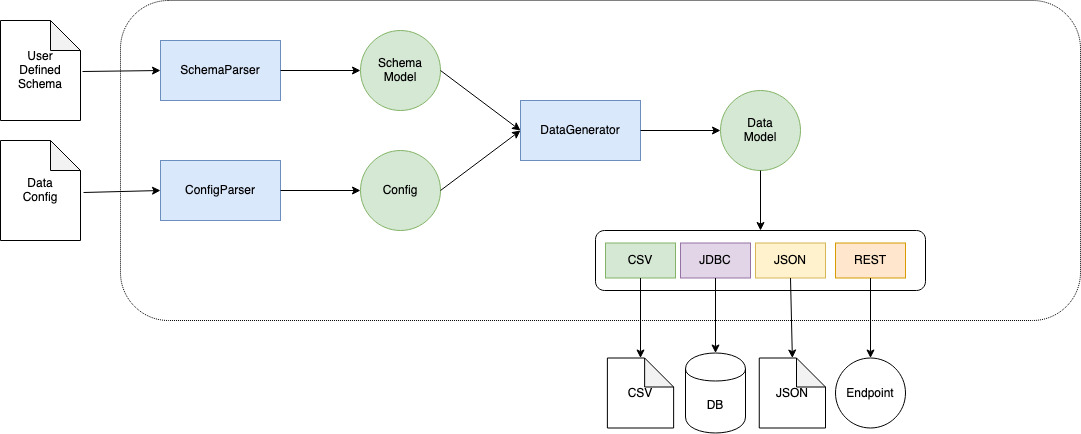
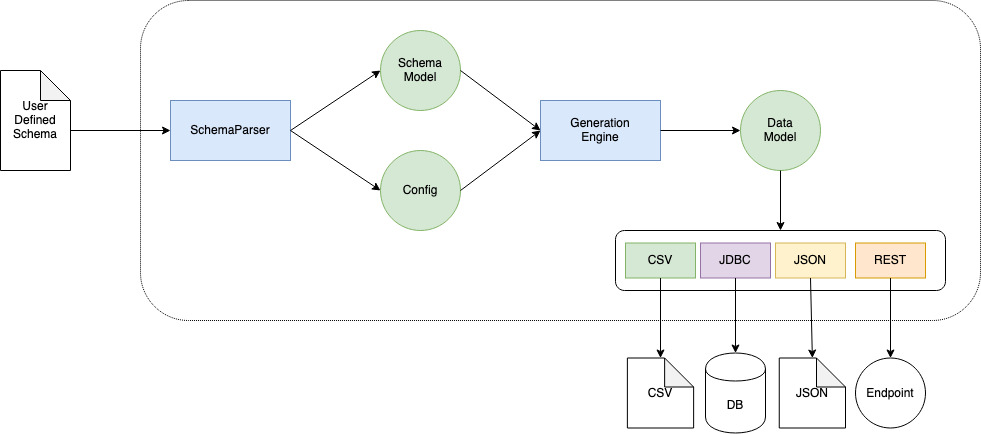
[#8] add basic data model doc
Add documentation to readme

diff --git a/README.md b/README.md
@@ -1,7 +1,203 @@
-A tool that generates datasets from a simple configuration file to your datastore.
+# Chromosoma
+Just define your data DNA and generate your dataset.
 
-### HLD
+#### High Level Overview
 ![](doc/img/HLD.jpg)
 
-### Generation conceptual model
+#### Input
+Users just need to define the schema model configuration in a json file. For each field of the schema a name, a type and a set of rules need to be defined.
+
+It follows an example of `schema.json definition:
+
+```json
+{
+   "instances": 10,
+
+   "output": "result",
+
+   "format": "csv",
+
+   "fields":[
+      {
+         "name":"name",
+         "dataType":"string",
+         "rules":[
+            {
+                "type": "set",
+                "values": ["dave","simon"],
+                "distribution": 1.0
+            }
+         ]
+      },
+      {
+         "name":"age",
+         "dataType":"int",
+         "rules":[
+            {
+               "type":"set",
+               "values":[
+                  100
+               ],
+               "distribution":0.1
+            },
+            {
+               "type":"range",
+               "min":10,
+               "max":99,
+               "distribution":0.9
+            }
+         ]
+      },
+      {
+         "name":"budget",
+         "dataType":"decimal",
+         "rules":[
+            {
+               "type":"set",
+               "values":[
+                  100
+               ],
+               "distribution":0.5
+            },
+            {
+               "type":"range",
+               "min":1,
+               "max":10,
+               "distribution":0.5
+            }
+         ]
+      },
+      {
+         "name":"married",
+         "dataType":"boolean",
+         "rules":[
+            {
+               "type":"boolean",
+               "false":0.0,
+               "true":1.0
+            }
+         ]
+      }
+   ]
+}
+````
+
+#### Output
+result.csv
+```
+dave,64,1.3272667719937015,true
+dave,66,100.0,true
+simon,16,7.887171701724464,true
+simon,100,100.0,true
+dave,50,4.378826132850798,true
+simon,48,100.0,true
+simon,24,1.2484780989173947,true
+simon,100,100.0,true
+dave,37,100.0,true
+dave,48,100.0,true
+simon,81,9.032302178134143,true
+```
+
+---
+
+## Supported Field Types
+- string
+- int
+- decimal
+- boolean
+- date (TODO)
+
+---
+
+## Rules
+Every field comes with a set of rules, and every rule comes with a distribution. The distribution you define is used within the generation engine to understand how to model your data. The sum of the rule distributions for a single rule should be equal to 1.
+
+#### Supported string rules
+- String set: the string to be generated is randomly selected from `values` set
+```json
+{
+  "name": "first name",
+  "dataType": "string",
+  "rules": [
+      {
+        "type": "set",
+        "values": ["dave","simon"],
+        "distribution": 1.0
+      }
+    ]
+}
+```
+In the example above, all the first names will be equal to `dave` or `simon`.
+
+#### Supported int rules
+- Integer set: the integer to be generated is randomly selected from `values` set
+- Range: the integer to be generated is randomly selected between `min` and `max
+```json
+{
+     "name":"age",
+     "dataType":"int",
+     "rules":[
+        {
+           "type":"set",
+           "values":[
+              100
+           ],
+           "distribution":0.1
+        },
+        {
+           "type":"range",
+           "min":10,
+           "max":99,
+           "distribution":0.9
+        }
+     ]
+}
+```
+
+In the example above ~10% of your ages will be equal to 100 and ~90% of your ages will be between 10 and 99.
+
+#### Supported decimal rules
+Same as integer rules (specialisation will be implemented soon).
+
+#### Supported boolean rules
+- Boolean: just define the false and true distribution values
+```json
+{
+     "name":"married",
+     "dataType":"boolean",
+     "rules":[
+        {
+           "type":"boolean",
+           "false":0.0,
+           "true":1.0
+        }
+     ]
+}
+```
+In the example above, all the `married` rows will be equal to `false`
+
+## Supported Output Format
+- CSV (with `,` separator)
+- AVRO 
+- JSON (TODO)
+- JDBC (TODO)
+- REST (TODO)
+
+---
+
+## Generation Engine Modeling
+
 ![](doc/img/conceptual-model.png)
+
+---
+
+#### How to run
+The only supported mode now is standalone. 
+
+More interactive running mode will be developed soon.
+```bash
+git clone https://github.com/holydrinker/chromosoma.git
+cd chromosoma
+sbt assembly
+java -jar target/scala-2.12/chromosoma-assembly-0.1.0.jar <path-to-schema>.json
+```
